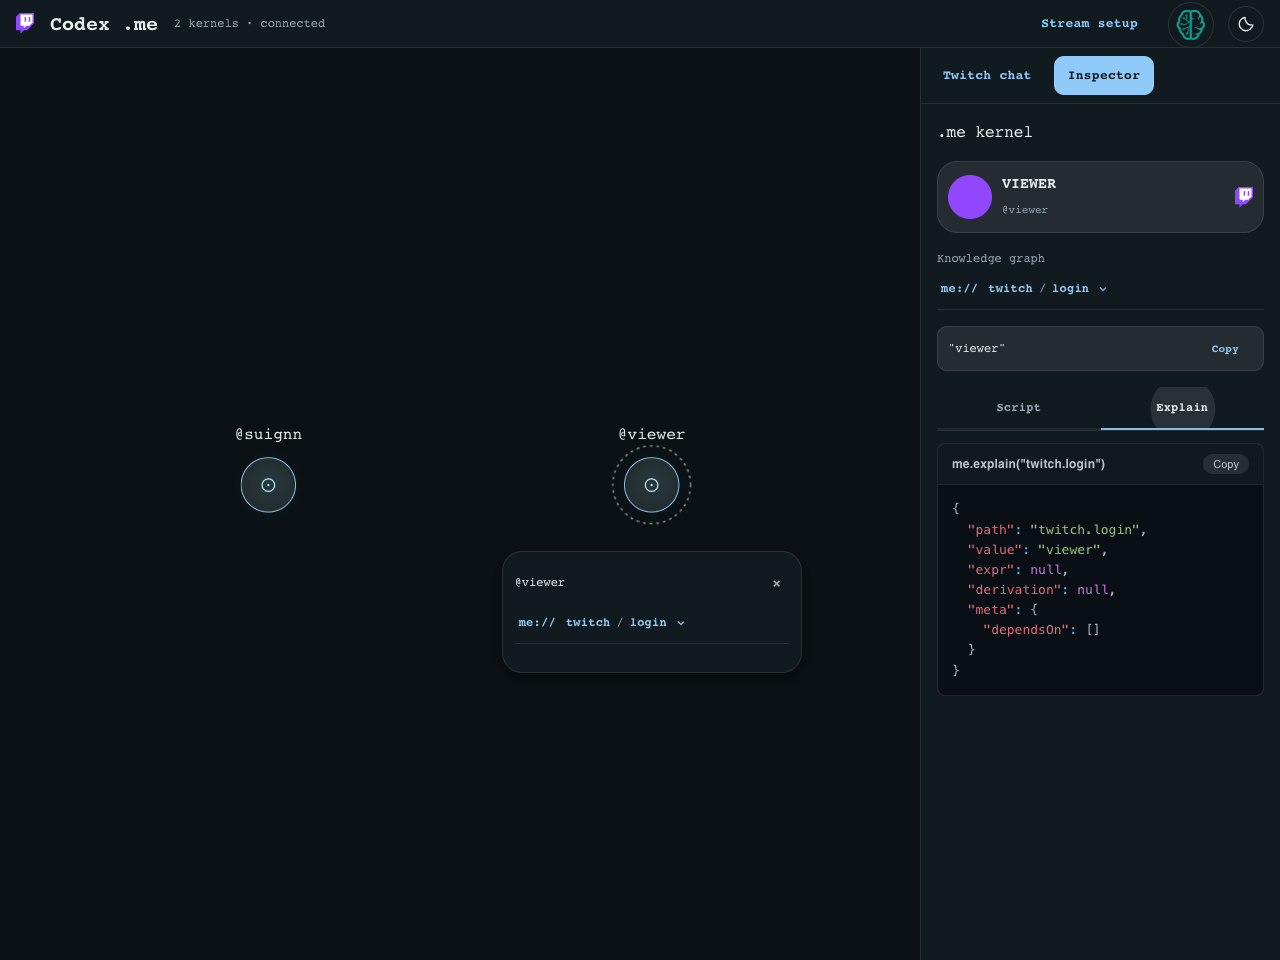
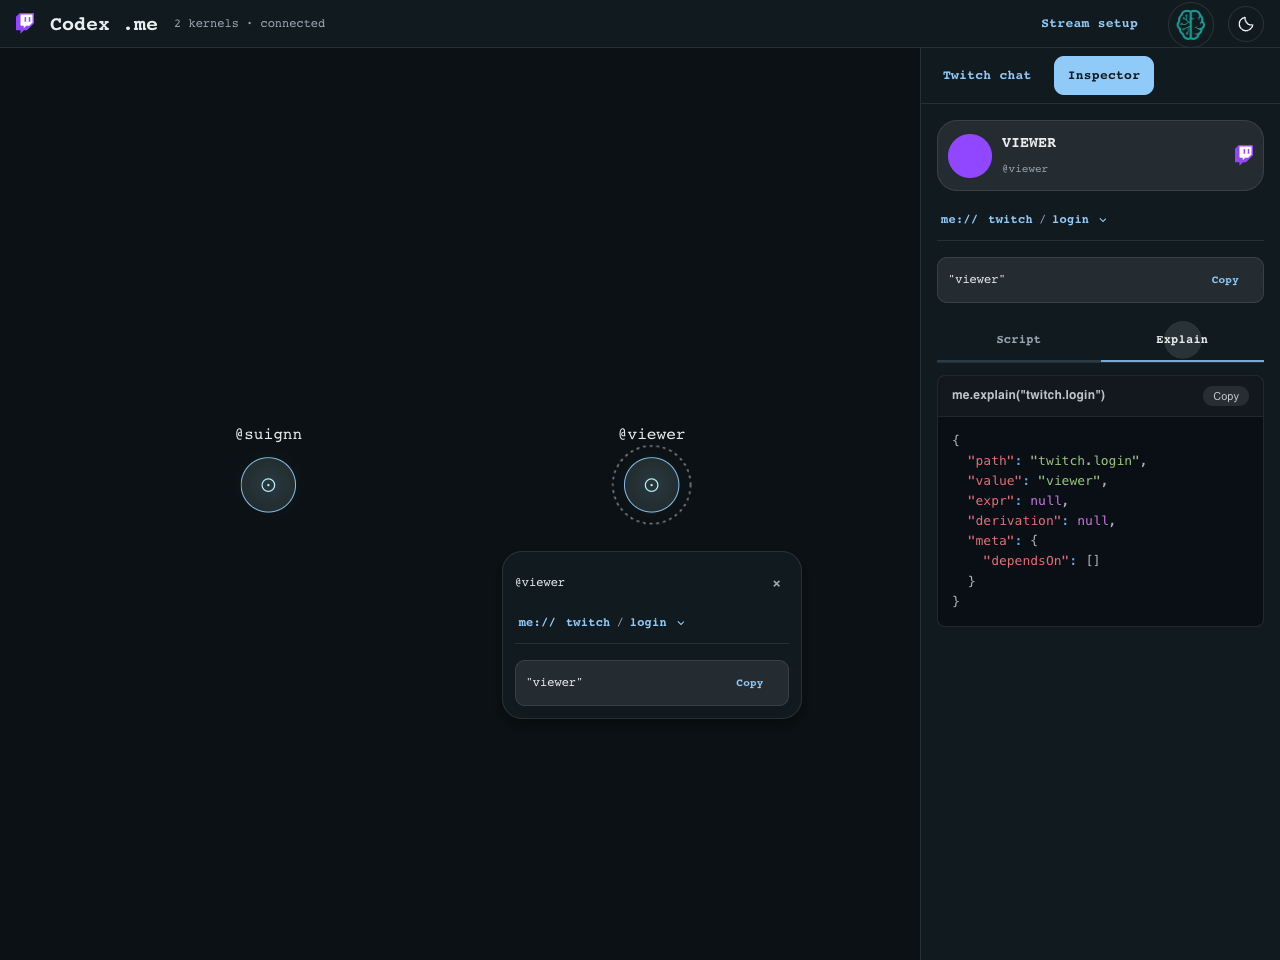
ui: simplify inspector headings and show output by the bubble

diff --git a/overlay/kernel-console.js b/overlay/kernel-console.js
@@ -36,22 +36,25 @@ function useQuery(id, path, operation, enabled) {
   }, [id, path, operation, enabled, key]);
   return result?.key === key ? result : null;
 }
-export function KernelConsole({ kernel, path }) {
-  const [tab, setTab] = R.useState('Script');
-  const leaf = kernel.graph?.nodes.some(node => node.path === path);
-  const output = useQuery(kernel.id, path, 'run', leaf);
-  const explanation = useQuery(kernel.id, path, 'explain', leaf && tab === 'Explain');
-  const prefix = `console-${kernel.id}`;
-  const renderResult = (result, operation) => !leaf
+function renderResult(result, operation, kernel, path, leaf) { return !leaf
     ? h(Typography, { sx: { ...mono, fontSize: 12, color: 'text.secondary' } }, 'Select a path.')
     : result?.error ? h(Typography, { role: 'alert', sx: { fontSize: 12, color: 'error.main' } }, result.error)
     : result ? h(Box, { 'data-query-output': operation, 'aria-live': 'polite' }, operation === 'run'
       ? h(CodeLine, { key: `${kernel.id}:${path}`, value: result.output })
       : code(JSON.stringify(result.output, null, 2), 'json', `me.explain(${JSON.stringify(path)})`))
-    : h(Typography, { role: 'status', sx: { ...mono, fontSize: 12, color: 'text.secondary' } }, 'Loading…');
+    : h(Typography, { role: 'status', sx: { ...mono, fontSize: 12, color: 'text.secondary' } }, 'Loading…'); }
+export function KernelOutput({ kernel, path, compact = false }) {
+  const leaf = kernel.graph?.nodes.some(node => node.path === path);
+  const output = useQuery(kernel.id, path, 'run', leaf);
+  return h(Box, { component: 'section', 'aria-label': 'Output', sx: { mb: compact ? 0 : 2 } }, renderResult(output, 'run', kernel, path, leaf));
+}
+export function KernelConsole({ kernel, path }) {
+  const [tab, setTab] = R.useState('Script');
+  const leaf = kernel.graph?.nodes.some(node => node.path === path);
+  const explanation = useQuery(kernel.id, path, 'explain', leaf && tab === 'Explain');
+  const prefix = `console-${kernel.id}`;
   return h(Box, { 'data-kernel-console': kernel.id, sx: codeStyle },
-    h(Box, { component: 'section', 'aria-label': 'Output', sx: { mb: 2 } },
-      renderResult(output, 'run')),
+    h(KernelOutput, { kernel, path }),
     h(Box, { role: 'tablist', 'aria-label': 'Kernel views', sx: { display: 'flex', borderBottom: 1, borderColor: 'divider', mb: 1.5 } },
       tabs.map(label => h(Button, { key: label, role: 'tab', id: `${prefix}-${label}`, 'aria-selected': tab === label, 'aria-controls': `${prefix}-panel`, tabIndex: tab === label ? 0 : -1,
         onClick: () => setTab(label), onKeyDown: event => {
@@ -61,5 +64,5 @@ export function KernelConsole({ kernel, path }) {
           event.preventDefault(); setTab(tabs[next]); event.currentTarget.parentElement.querySelectorAll('[role="tab"]')[next].focus();
         }, sx: { ...mono, flex: 1, minWidth: 0, textTransform: 'none', fontSize: 12, borderRadius: 0, borderBottom: 2, borderColor: tab === label ? 'primary.main' : 'transparent', color: tab === label ? 'text.primary' : 'text.secondary' } }, label))),
     h(Box, { role: 'tabpanel', id: `${prefix}-panel`, 'aria-labelledby': `${prefix}-${tab}`, tabIndex: 0 },
-      tab === 'Script' ? h(Box, { 'data-me-script': kernel.id }, code(kernel.script, 'javascript', 'Script')) : renderResult(explanation, 'explain')));
+      tab === 'Script' ? h(Box, { 'data-me-script': kernel.id }, code(kernel.script, 'javascript', 'Script')) : renderResult(explanation, 'explain', kernel, path, leaf)));
 }

diff --git a/overlay/spiders.js b/overlay/spiders.js
@@ -1,4 +1,4 @@
-import { KernelConsole } from './kernel-console.js';
+import { KernelConsole, KernelOutput } from './kernel-console.js';
 import { KnowledgeGraph } from './kernel-graph.js';
 import { TwitchChat } from './twitch-chat.js';
 import { createThemeControls } from './theme-controls.js';
@@ -45,7 +45,8 @@ function BubbleNavigation({ anchor, kernel, path, selectPath, onClose }) {
     h(Box, { sx: { display: 'flex', alignItems: 'center', justifyContent: 'space-between', gap: 1, mb: 1 } },
       h(Typography, { sx: { ...mono, fontSize: 12, overflow: 'hidden', textOverflow: 'ellipsis' } }, `@${kernel.owner}`),
       h(Button, { size: 'small', onClick: onClose, 'aria-label': 'Close bubble navigation', sx: { minWidth: 24, px: 0.5, color: 'text.secondary' } }, '×')),
-    h(KnowledgeGraph, { graph: kernel.graph, path, selectPath }));
+    h(KnowledgeGraph, { graph: kernel.graph, path, selectPath }),
+    h(KernelOutput, { kernel, path, compact: true }));
 }
 function Kernel({ kernel, index, count, selected, onSelect, face }) {
   const columns = Math.max(1, Math.ceil(Math.sqrt(count * 16 / 9))), rows = Math.ceil(count / columns);
@@ -112,10 +113,8 @@ function App() {
           h(Button, { size: 'small', variant: panel === 'inspector' ? 'contained' : 'text', onClick: () => setPanel('inspector'), 'aria-pressed': panel === 'inspector', sx: mono }, 'Inspector')),
         panel === 'chat' ? h(Box, { sx: { flex: 1, minHeight: 0 } }, h(TwitchChat)) : null,
         h(Box, { sx: { display: panel === 'inspector' ? 'block' : 'none', p: 2, overflowY: 'auto', flex: 1, minHeight: 0 } },
-          h(Typography, { sx: { ...mono, fontSize: 16, mb: 2 } }, '.me kernel'),
           current ? h(React.Fragment, null,
             h(TwitchProfile, { kernel: current }),
-            h(Typography, { sx: { ...mono, fontSize: 12, color: 'text.secondary', mb: 1 } }, 'Knowledge graph'),
             h(KnowledgeGraph, { graph: current.graph, path, selectPath }),
             h(KernelConsole, { kernel: current, path }))
             : h(Typography, { role: 'status', 'data-inspector-empty': true, sx: { ...mono, fontSize: 14, color: 'text.secondary' } }, 'Select a node')))));

diff --git a/README.md b/README.md
@@ -51,7 +51,7 @@ Graph nodes come from public `exportSnapshot().memories`; values are read throug
 
 The selected kernel's profile header renders its real Twitch avatar, display name and linked login using GUI atoms; the existing Twitch Glitch asset marks the profile and web topbar. Missing avatars fall back to the login initial. These controls remain outside the transparent OBS scene.
 
-Clicking a web .me bubble opens an anchored path navigator built from the same GUI buttons/dropdowns as the inspector. Both surfaces share the selected kernel and path: changing either updates the other and the actual output/explain query without resetting the Script/Explain tab. Clicking the same bubble again or its close control hides the navigator while keeping the inspected path. The navigator follows scene resizing and completed bubble movement; it does not appear in the transparent OBS source.
+Clicking a web .me bubble opens an anchored path navigator built from the same GUI buttons/dropdowns as the inspector. The bubble panel also shows the selected leaf as the same compact, copyable output used by the inspector. Both surfaces share the selected kernel and path: changing either updates the other and the actual output/explain query without resetting the Script/Explain tab. Clicking the same bubble again or its close control hides the navigator while keeping the inspected path. The navigator follows scene resizing and completed bubble movement; it does not appear in the transparent OBS source.
 
 The inspector navigates the graph by path: `me://` lists root branches; opening `twitch` lists `id`, `login`, `displayName` and `profileImageUrl` without repeating the prefix. Breadcrumb segments return to ancestors; a dropdown appears only when that segment has other siblings at its level. The root is a navigation link, not another dropdown. Opening a leaf shows its value and real explanation. Branches are UI groups derived from memory paths, not invented stored facts or a new namespace-read API. Real dependency links remain clickable inside their parent branch. The `me://` breadcrumb is a local display, not a remote-address operation. Below the selected path, the value is always visible as a compact, single-line JSON code display with a Copy button and no separate Output heading. It automatically reads `me(path)` from the existing server kernel. Under it, **Script / Explain** tabs show the construction source or the actual `me.explain(path)` JSON, including expression, derivation and metadata from this.me 4.2.1. The selected tab is preserved while navigating paths or switching kernels. Query results follow the current selection, with obsolete requests cancelled and old-path results hidden. Script is initially selected; arrow keys and Home/End navigate the tabs. Both views use GUI's native syntax highlighting. No construction script is re-executed and no editable code or eval is accepted. The object inspector is separate from GUI's general semantic/interface inspector and browser DOM developer tools. Selecting graph nodes only reads state; it does not execute or rewrite scripts. Face following changes presentation only and does not invent kernel facts or explanation results.
 

diff --git a/evidence/SESSION.md b/evidence/SESSION.md
@@ -379,3 +379,10 @@ The existing offline kernel integration check passed. Live-browser verification 
 The owner requested that the .me bubble open me:// navigation with dropdowns coordinated with the inspector. Added an anchored web-only panel that reuses KnowledgeGraph and its existing native GUI buttons/Menu/MenuItem. It shares the existing selected kernel/path state with the inspector rather than creating another kernel or issuing writes. Navigating from either surface updates both breadcrumbs and the real value/explain query while preserving the chosen Script/Explain tab. The same bubble toggles the panel without resetting its path; close/Escape hide it while retaining selection. Position is clamped within the scene and updated on resize/completed bubble movement. Transparent OBS remains scene-only.
 
 The existing offline integration check passed with added coverage for bubble-to-inspector and inspector-to-bubble path updates, closing without clearing the inspected selection, switching between independent kernels and retained Explain selection. Live-browser verification navigated twitch.login through the bubble and switched to displayName via its same-level dropdown; both breadcrumbs, compact value and real Explain JSON updated together. Screenshot: evidence/kernels/bubble-path-navigation.png. No backend/kernel changes, server restart or real chat messages.
+
+
+### 2026-10-28 — remove redundant inspector headings and add bubble output
+
+Removed the visible .me kernel and Knowledge graph labels from the inspector at the owner's request, leaving the selected Twitch profile followed by path navigation. Extracted the existing actual server-backed, copyable value into a shared KernelOutput component and reused it below the bubble navigator. Script/Explain remain in the inspector. Empty branches still request a path rather than fabricating a namespace value.
+
+The existing offline integration check passed with assertions for absent labels and the bubble's real selected value. Live-browser verification selected twitch.displayName from the bubble, confirmed matching suiGnn values on both surfaces, and confirmed Copied feedback on the bubble output. Screenshot: evidence/kernels/bubble-output.png. Refreshed the existing demo tab and closed the temporary verification view. No server restart, backend changes or real chat messages.
